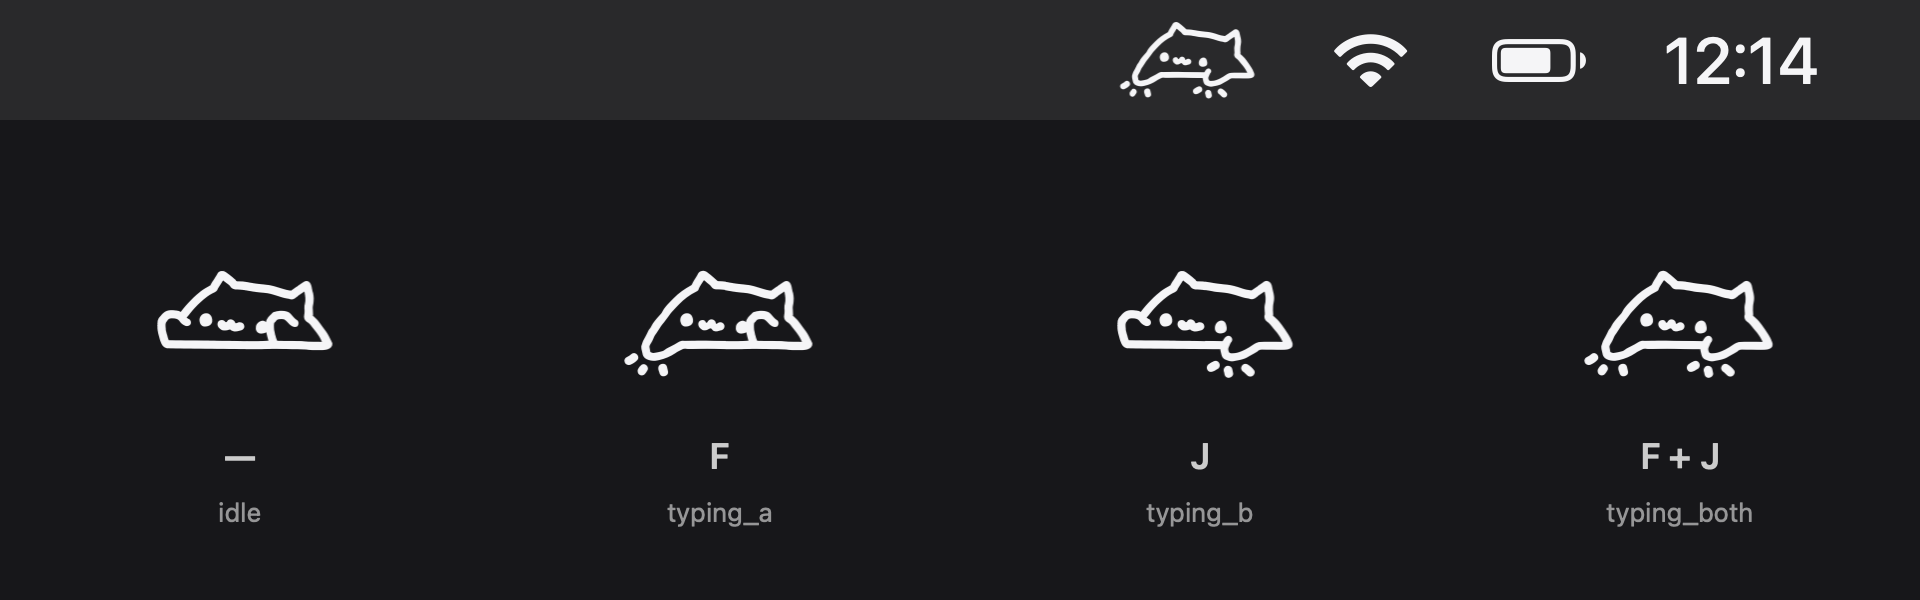
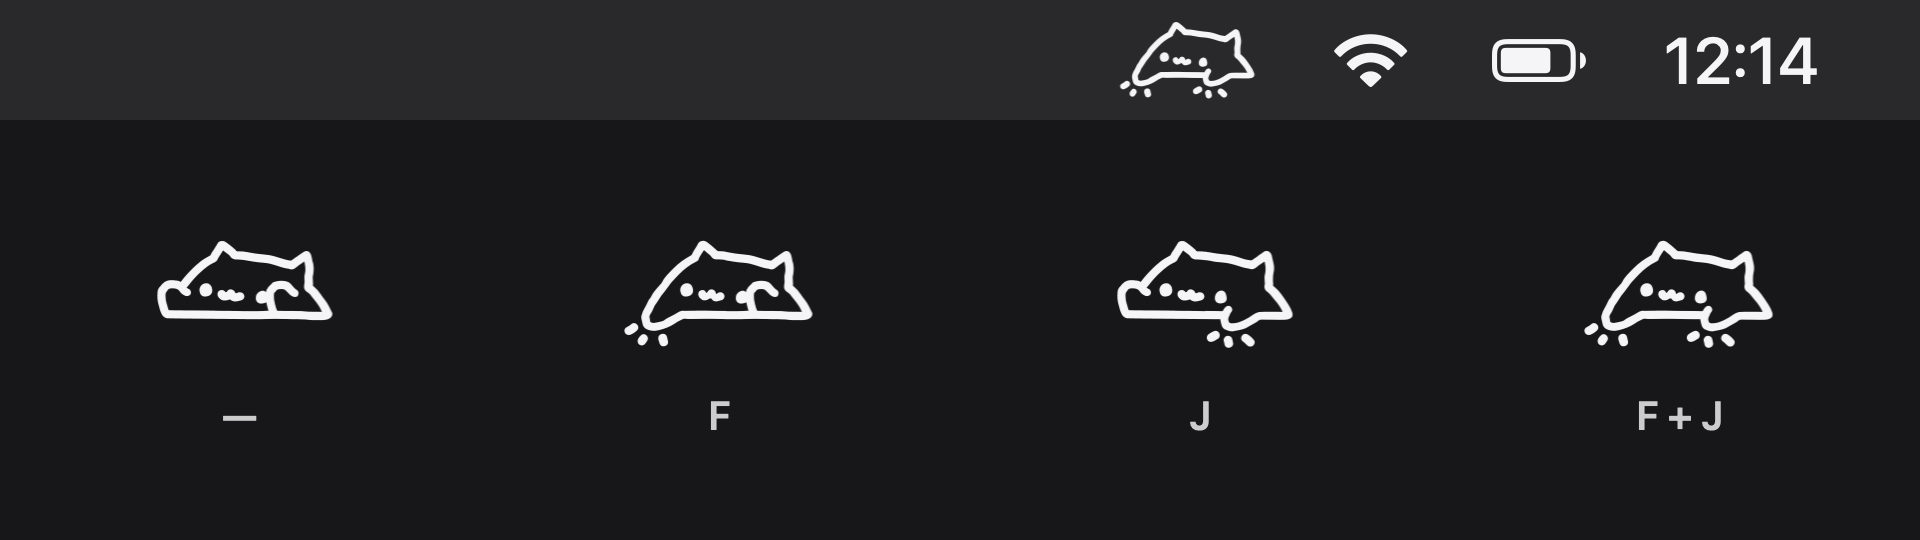
docs: 静态演示图去掉内部帧名，只保留按键提示（中英 README 共用）

diff --git a/Scripts/render-demo.swift b/Scripts/render-demo.swift
@@ -185,7 +185,7 @@ func drawKeys(centerX: CGFloat, centerY: CGFloat, pressed: Set<String>, theme: T
 // MARK: - Static image: four frames
 
 func renderStatic(_ theme: Theme) -> CGImage {
-    let width = 960, height = 300
+    let width = 960, height = 270
     return render(width: width, height: height, scale: 2) {
         theme.page.setFill()
         NSRect(x: 0, y: 0, width: width, height: height).fill()
@@ -198,10 +198,10 @@ func renderStatic(_ theme: Theme) -> CGImage {
         let big = NSSize(width: catSize.width * 1.4, height: catSize.height * 1.4)
         for (i, cell) in cells.enumerated() {
             let cx = cellW * (CGFloat(i) + 0.5)
-            let rect = NSRect(x: cx - big.width / 2, y: 110, width: big.width, height: big.height)
+            let rect = NSRect(x: cx - big.width / 2, y: 95, width: big.width, height: big.height)
             drawTemplate(frames[cell.frame]!, in: rect, color: theme.fg)
-            drawText(cell.caption, at: NSPoint(x: cx, y: 72), size: 18, color: theme.keyText, weight: .semibold, centered: true)
-            drawText(cell.frame, at: NSPoint(x: cx, y: 44), size: 13, color: theme.keyText.withAlphaComponent(0.7), weight: .regular, centered: true)
+            // Key hint only, so one image serves both the Chinese and English README.
+            drawText(cell.caption, at: NSPoint(x: cx, y: 62), size: 20, color: theme.keyText, weight: .semibold, centered: true)
         }
     }
 }
